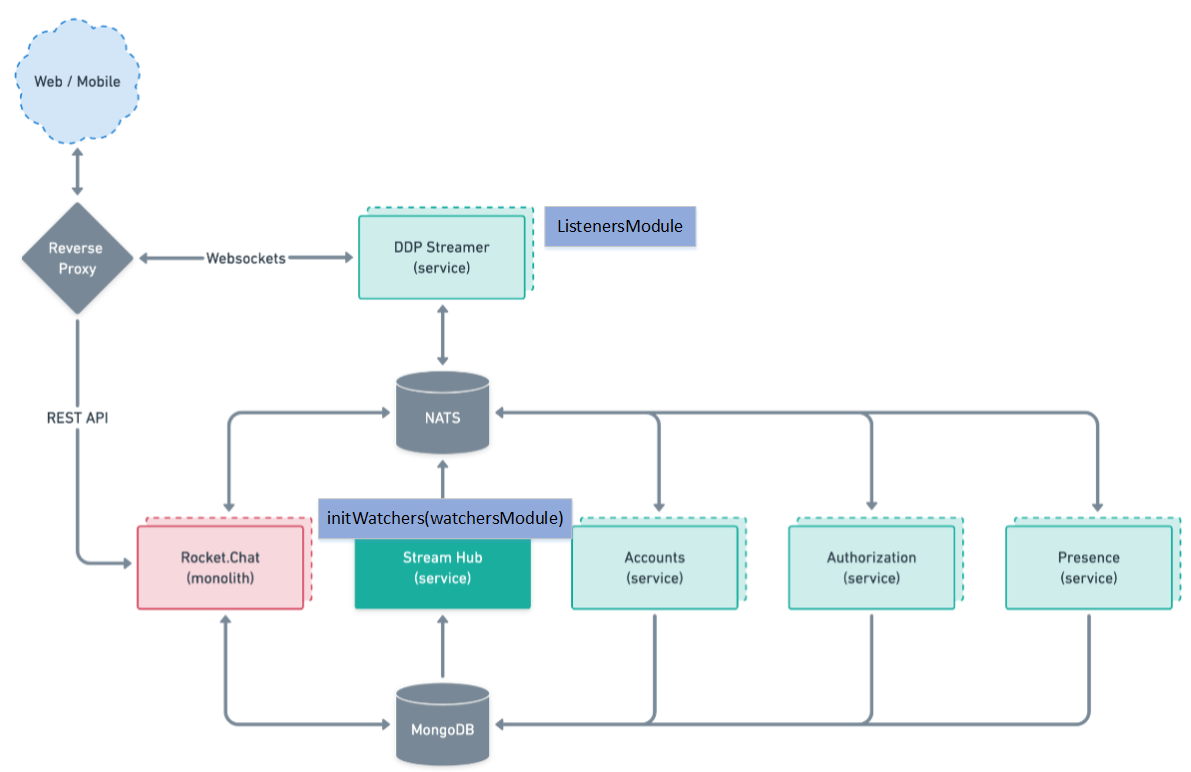
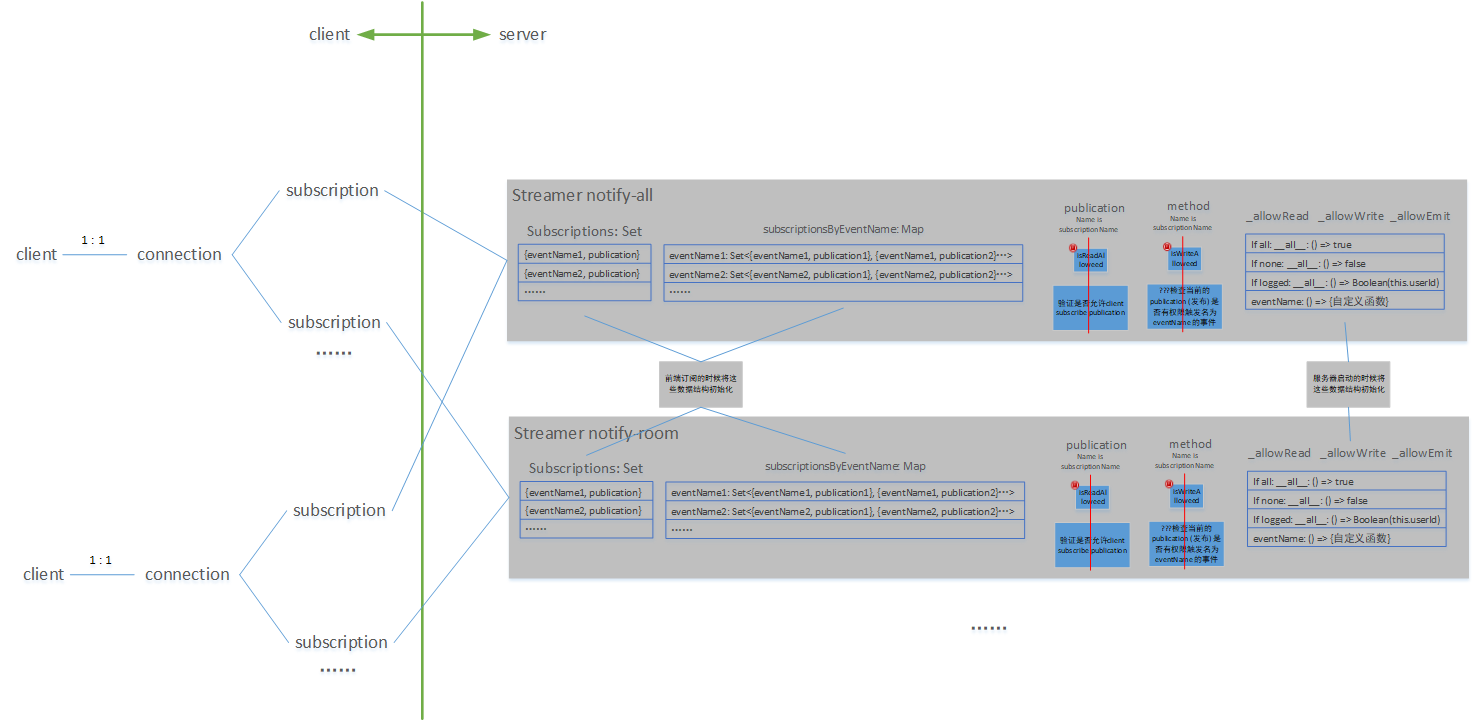
GITBOOK-68: No subject

diff --git a/daily_note/rocketchat/rocketchat-chang-lian-jie-tong-xin.md b/daily_note/rocketchat/rocketchat-chang-lian-jie-tong-xin.md
@@ -1,0 +1,79 @@
+---
+icon: gears
+---
+
+# Rocketchat 长连接通信
+
+## connect
+
+**上传的数据格式**
+
+```
+["{\"msg\":\"connect\"}"]
+```
+
+**响应的数据格式**
+
+```
+a["{"msg":"connected","session":"899c8a30-a812-11ef-8e6b-798088259cfa"}"]
+```
+
+## login
+
+Rocketchat的登录分为长短连接的登录。前置条件：connect。
+
+### 短连接登录
+
+
+
+### 长连接登录
+
+**上传的数据格式：**
+
+```
+["{\"msg\":\"method\",\"id\":\"1\",\"method\":\"login\",\"params\":[{\"resume\":\"CmeXLEyx2sAfKF-gabjgGo-4BaENIWI6wLswPL0RP9N\"}]}"]
+```
+
+* msg: string用于区分消息类型：method，subscribe，ping。
+* id: string用于标记并区分不同的客户端请求，以便客户端能够正确地将服务器响应与原始请求匹配起来。在登录过程中 `"id":"1"` 就是 `login` 请求的唯一标识符。当服务器响应登录请求时，响应消息中也会包含 `"id":"1"`，这样客户端就能知道这个响应是针对之前的登录请求的。
+* method: string用于标记调用的方法。
+* params: object\[]用于标记方法的参数。
+
+**响应的数据格式：**
+
+
+
+```
+a["{\"msg\":\"result\",\"id\":\"5\",\"result\":{\"id\":\"xFWck5bgzRWRs9Pri\",\"token\":\"BXeNk5EZMsPE4QdUCWOkFMBFX-LGAPQccglls0cacvg\",\"tokenExpires\":{\"$date\":1733494313168},\"type\":\"resume\"}}"]
+```
+
+
+
+```
+a["{\"msg\":\"updated\",\"methods\":[\"5\"]}"]
+```
+
+
+
+## stream-notify-all
+
+**上传的数据格式：**
+
+```
+["{\"msg\":\"sub\",\"id\":\"LoENtfnMocBDHRdK3\",\"name\":\"stream-notify-all\",\"params\":[\"public-settings-changed\",{\"useCollection\":false,\"args\":[]}]}"]
+```
+
+msg: string用于区分消息类型：method，subscribe，ping。
+
+id: string 用于区分不同的订阅: 一个客户端可以同时订阅多个事件，每个订阅都会有一个唯一的 `id`。这使得服务器可以精确地知道客户端订阅了哪些事件，即使这些事件来自同一个 Streamer（一个Streamer代表一个publication，一个connection可以订阅多次订阅同一个Stramer，依靠id区分不同订阅）。
+
+name: string 用于表示要订阅的 publication。
+
+params: \[string, object] 其中string对应eventName，object对应和订阅相关的配置信息。
+
+**响应的数据格式：**
+
+```
+a["{\"msg\":\"ready\",\"subs\":[\"LoENtfnMocBDHRdK3\"]}"]
+```
+

diff --git a/daily_note/rocketchat/rocketchat-jia-gou.md b/daily_note/rocketchat/rocketchat-jia-gou.md
@@ -6,7 +6,7 @@ icon: sitemap
 
 <figure><img src="../.gitbook/assets/image (32).png" alt=""><figcaption><p>官方的微服务架构</p></figcaption></figure>
 
-<figure><img src="../.gitbook/assets/image.png" alt=""><figcaption><p>Rocketchat 官方为服务架构补充</p></figcaption></figure>
+<figure><img src="../.gitbook/assets/image (1).png" alt=""><figcaption><p>Rocketchat 官方为服务架构补充</p></figcaption></figure>
 
 * 每个serice中都会调用registerModel函数（猜测registerModel中的数据库是各个service需要的数据库的集合），相当于每个service都要操作数据库。然后通过数据库对象代理就可以访问数据库了。
 * 每个service中都会使用 api.setBroker(broker) 将自身使用的broker设置为molecular的netWorkBroker。

diff --git a/daily_note/SUMMARY.md b/daily_note/SUMMARY.md
@@ -37,6 +37,8 @@
 * [待解决：为什么在Rocketchat中长短连接都emit('accounts.login')，进而生成了session文档？](rocketchat/dai-jie-jue-wei-shen-me-zai-rocketchat-zhong-chang-duan-lian-jie-dou-emitaccounts.login-jin-er-sheng.md)
 * [Rocketchat OAuth Server的实现](rocketchat/rocketchat-oauth-server-de-shi-xian.md)
 * [Rocketchat 怎样实现CI/CD的？](rocketchat/rocketchat-zen-yang-shi-xian-cicd-de.md)
+* [Rocketchat 长连接通信](rocketchat/rocketchat-chang-lian-jie-tong-xin.md)
+* [为了满足DDP协议，Rocketchat server端设计了一个什么样的数据结构？](rocketchat/wei-le-man-zu-ddp-xie-yi-rocketchat-server-duan-she-ji-le-yi-ge-shen-me-yang-de-shu-ju-jie-gou.md)
 
 ## Rocketchat 仿开过程中的一些问题
 

diff --git a/daily_note/rocketchat/streamer-notification-listener-watcher.md b/daily_note/rocketchat/streamer-notification-listener-watcher.md
@@ -11,6 +11,10 @@ icon: circle-exclamation
 * [Listener](https://github.com/RocketChat/Rocket.Chat/blob/4.0.0/server/modules/listeners/listeners.module.ts)源码
 * [watcher](https://github.com/RocketChat/Rocket.Chat/blob/4.0.0/server/modules/watchers/watchers.module.ts)源码
 
+## 数据结构概览
+
+<figure><img src="../.gitbook/assets/image.png" alt=""><figcaption></figcaption></figure>
+
 Streamer做了什么？Notification做了什么？Listener做了什么？总览
 
 `ListenersModule` 监听到的事件会交给 `NotificationsModule` 发送通知，而 `NotificationsModule` 在发送通知的过程中会依赖于 `Streamer`。

diff --git a/daily_note/rocketchat/wei-le-man-zu-ddp-xie-yi-rocketchat-server-duan-she-ji-le-yi-ge-shen-me-yang-de-shu-ju-jie-gou.md b/daily_note/rocketchat/wei-le-man-zu-ddp-xie-yi-rocketchat-server-duan-she-ji-le-yi-ge-shen-me-yang-de-shu-ju-jie-gou.md
@@ -1,0 +1,10 @@
+---
+icon: arrow-right-to-bracket
+---
+
+# 为了满足DDP协议，Rocketchat server端设计了一个什么样的数据结构？
+
+ws -- client -- server
+
+
+
